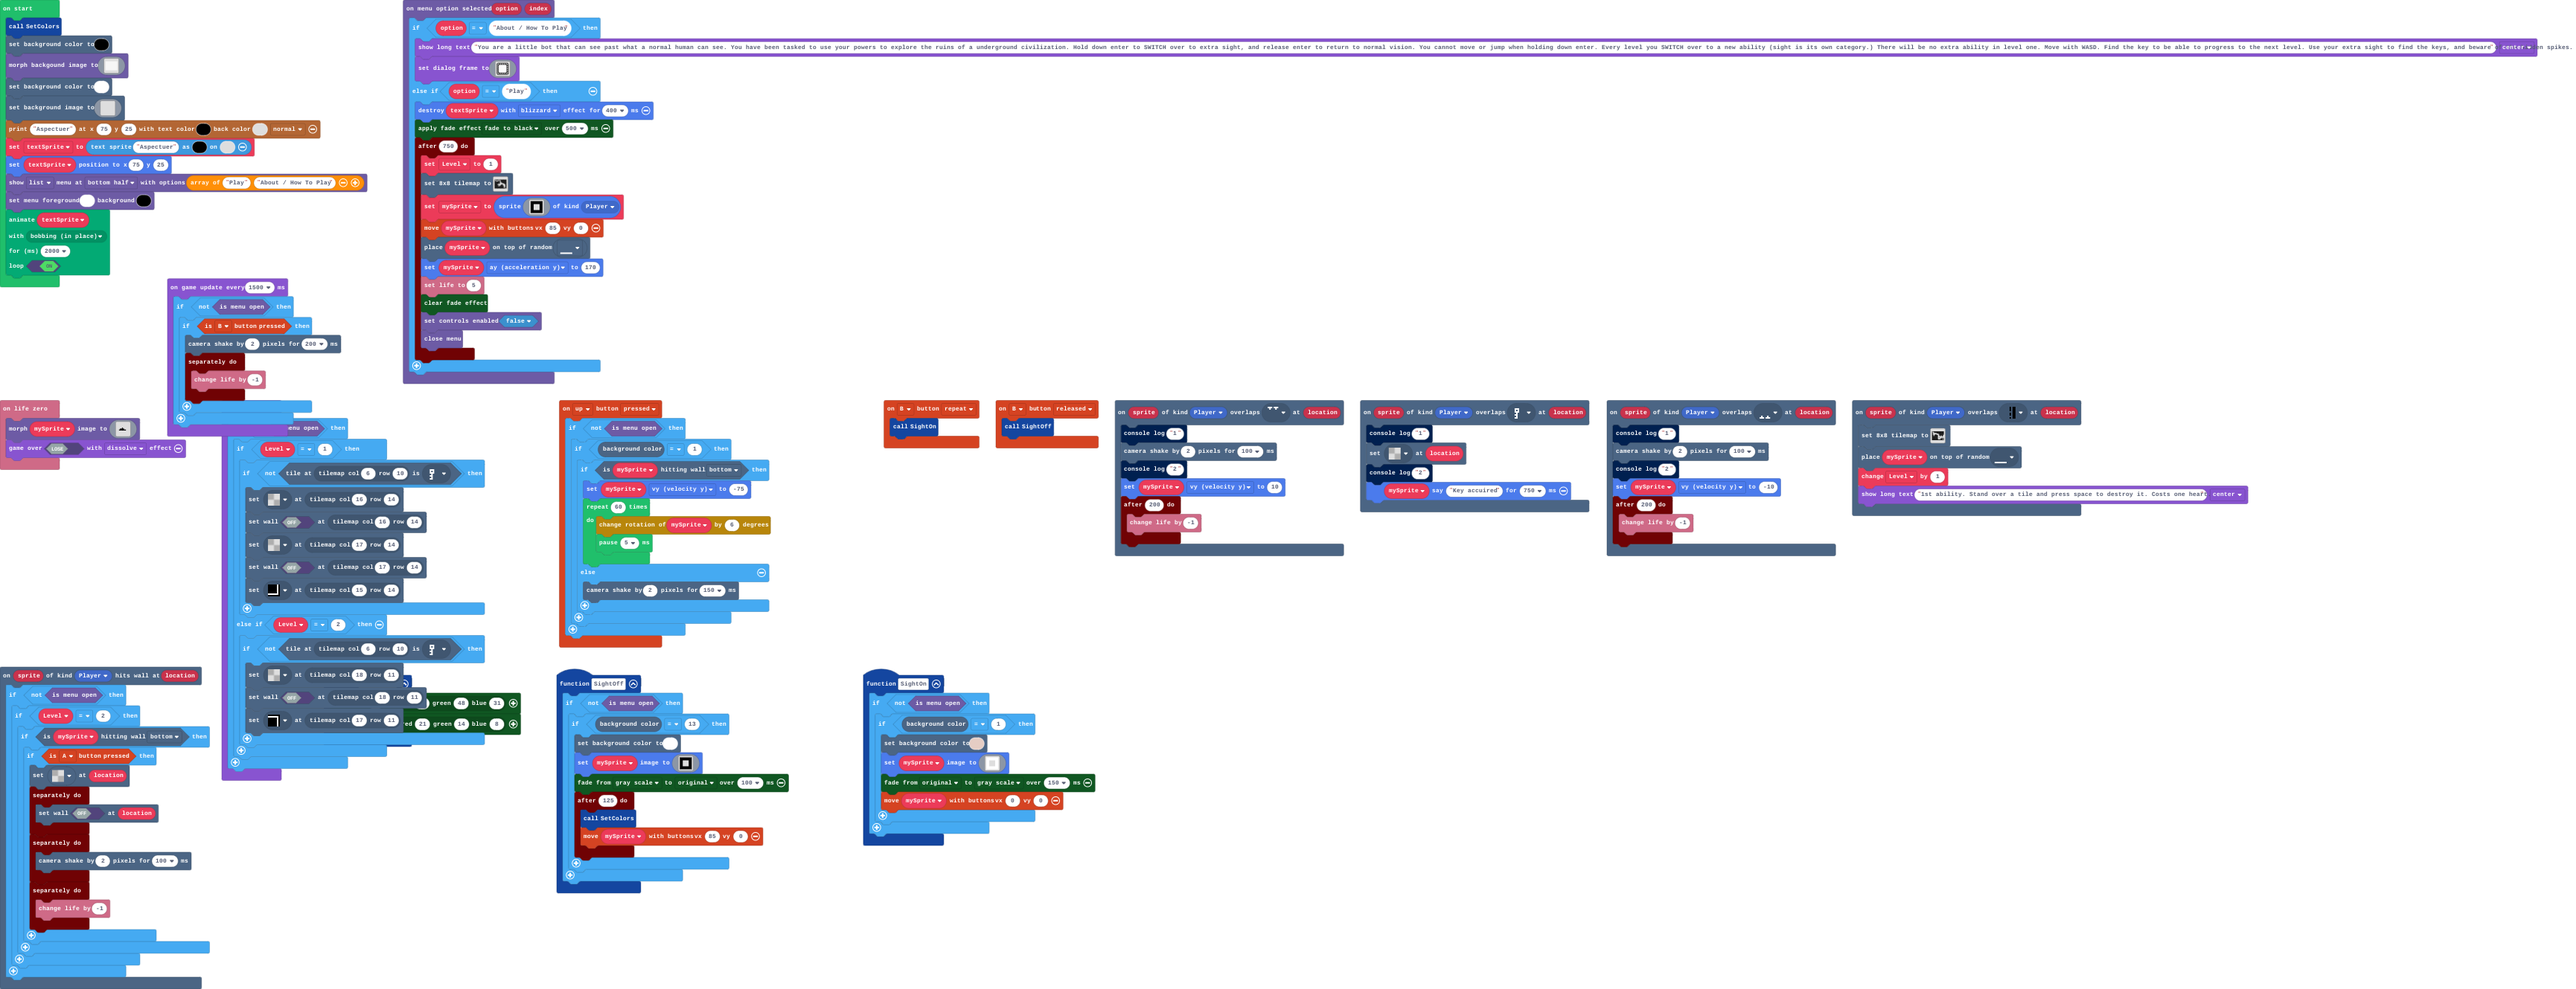
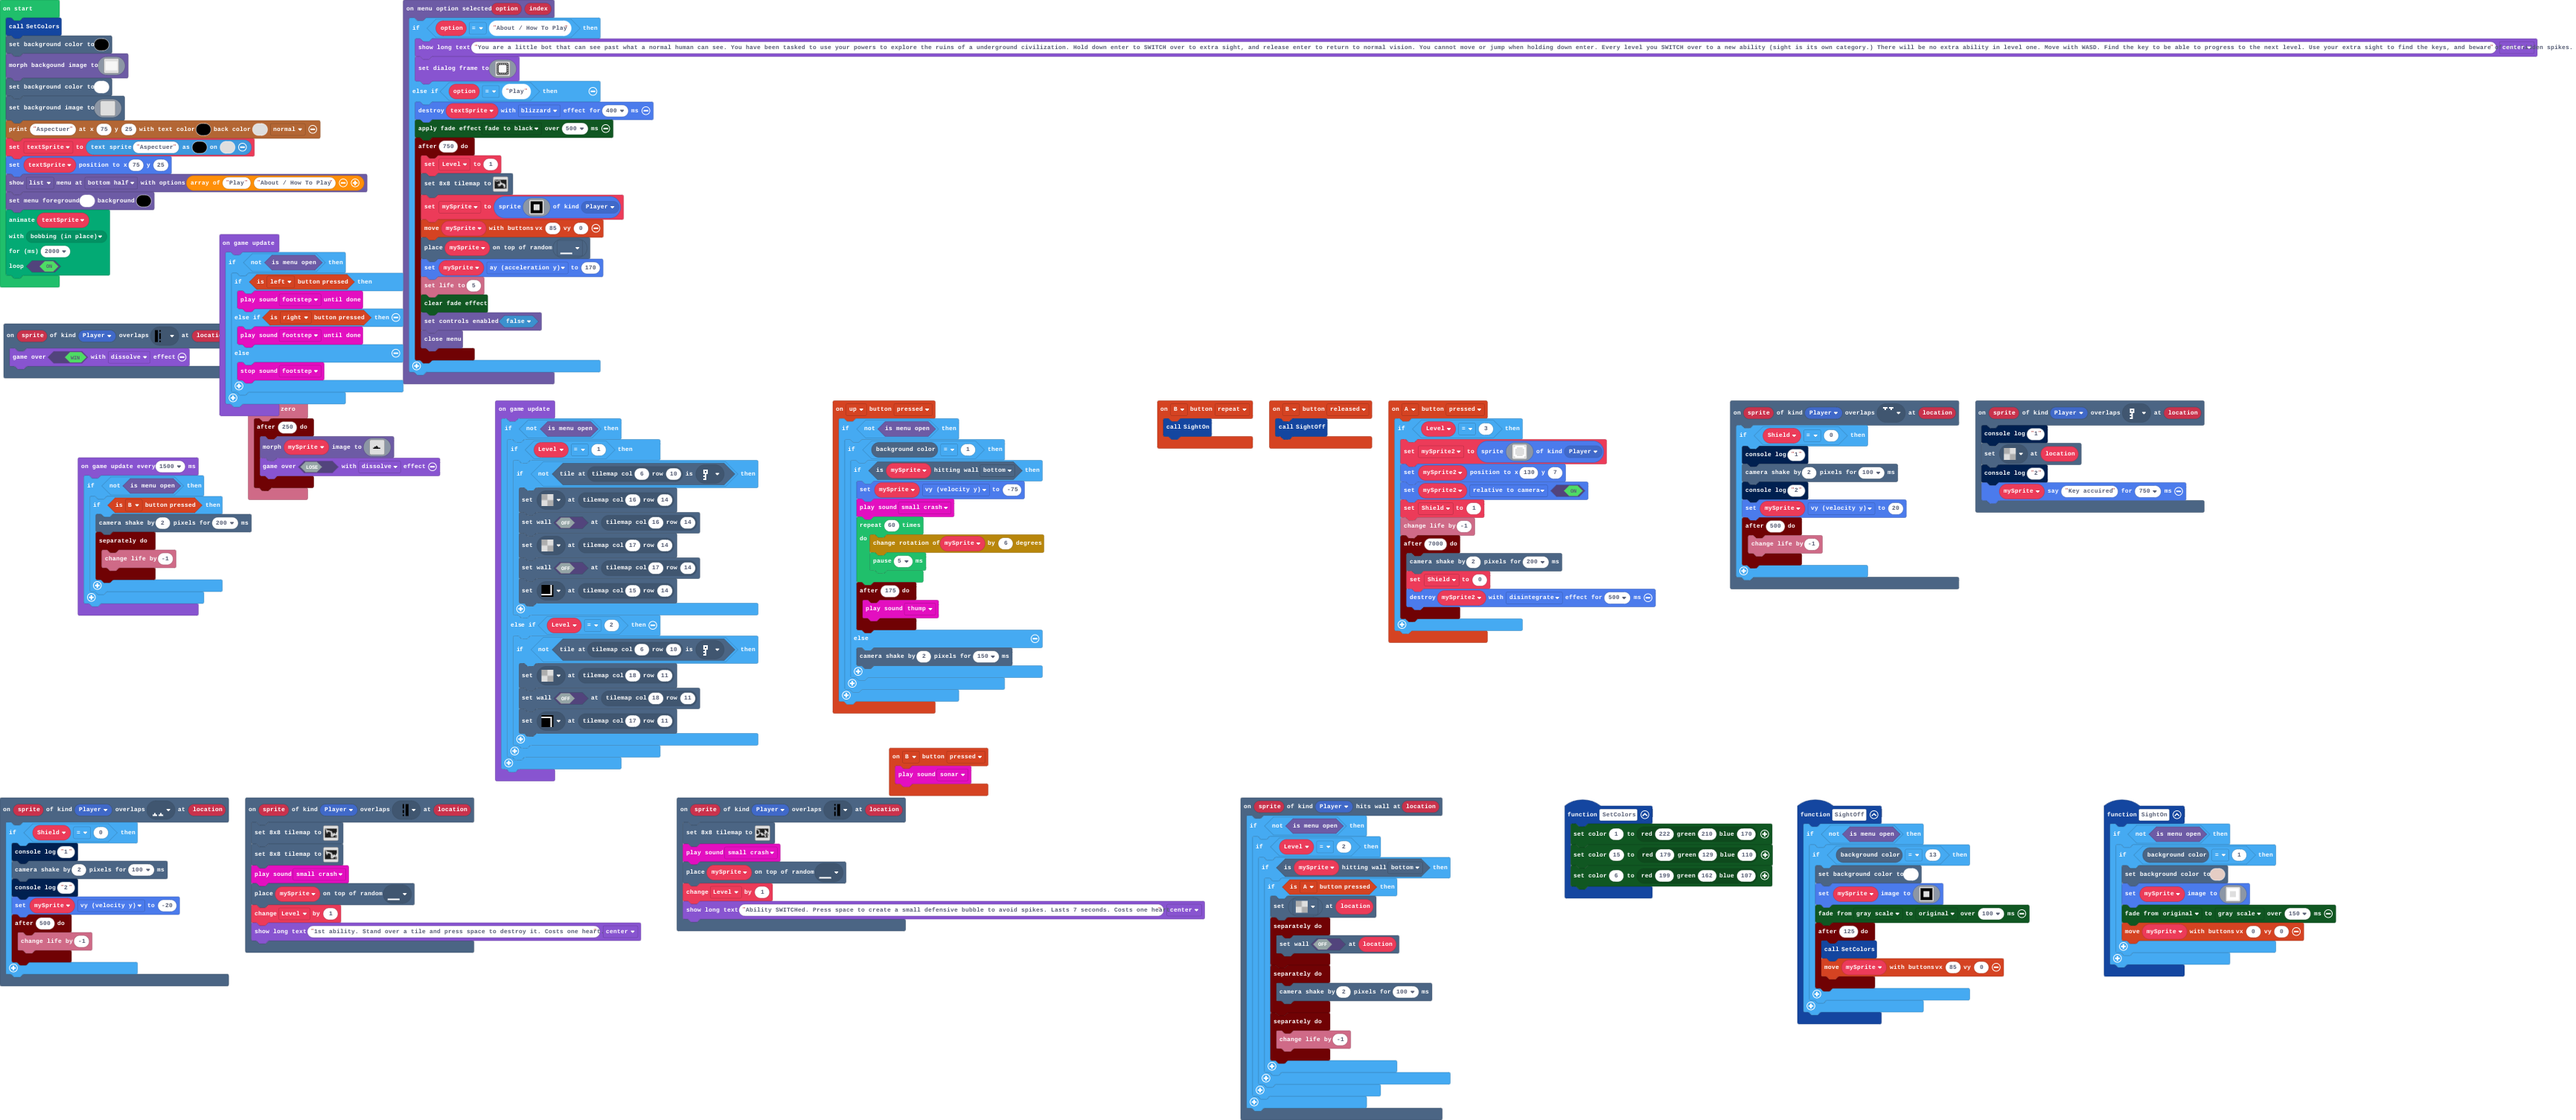
Update main.blocks, main.ts, tilemap.g.jres, tilemap.g.ts

Changed region(s): [[0.0, 0.0, 0.9986, 1.0], [0.5929, 0.709, 0.9049, 0.9248]]

diff --git a/tilemap.g.ts b/tilemap.g.ts
@@ -36,6 +36,12 @@ namespace myTiles {
     export const tile15 = image.ofBuffer(hex``);
     //% fixedInstance jres blockIdentity=images._tile
     export const tile16 = image.ofBuffer(hex``);
+    //% fixedInstance jres blockIdentity=images._tile
+    export const tile17 = image.ofBuffer(hex``);
+    //% fixedInstance jres blockIdentity=images._tile
+    export const tile18 = image.ofBuffer(hex``);
+    //% fixedInstance jres blockIdentity=images._tile
+    export const tile19 = image.ofBuffer(hex``);
 
     helpers._registerFactory("tilemap", function(name: string) {
         switch(helpers.stringTrim(name)) {
@@ -58,6 +64,80 @@ namespace myTiles {
 . . . . . . . . . . . . . . . . 
 . . . . . . . . . . . . . . . . 
 `, [myTiles.transparency16], TileScale.Sixteen);
+            case "level4":
+            case "level4":return tiles.createTilemap(hex`1000100000000000000000000000000000000000000000000000000000000000000000000000000000000000000000000000000000000000000000000000000000000000000000000000000000000000000000000000000000000000000000000000000000000000000000000000000000000000000000000000000000000000000000000000000000000000000000000000000000000000000000000000000000000000000000000000000000000000000000000000000000000000000000000000000000000000000000000000000000000000000000000000000000000000000000000000000000000000000000000000000000000000000000000000000000000000`, img`
+. . . . . . . . . . . . . . . . 
+. . . . . . . . . . . . . . . . 
+. . . . . . . . . . . . . . . . 
+. . . . . . . . . . . . . . . . 
+. . . . . . . . . . . . . . . . 
+. . . . . . . . . . . . . . . . 
+. . . . . . . . . . . . . . . . 
+. . . . . . . . . . . . . . . . 
+. . . . . . . . . . . . . . . . 
+. . . . . . . . . . . . . . . . 
+. . . . . . . . . . . . . . . . 
+. . . . . . . . . . . . . . . . 
+. . . . . . . . . . . . . . . . 
+. . . . . . . . . . . . . . . . 
+. . . . . . . . . . . . . . . . 
+. . . . . . . . . . . . . . . . 
+`, [myTiles.transparency8], TileScale.Eight);
+            case "level5":
+            case "level5":return tiles.createTilemap(hex`1000100000000000000000000000000000000000000000000000000000000000000000000000000000000000000000000000000000000000000000000000000000000000000000000000000000000000000000000000000000000000000000000000000000000000000000000000000000000000000000000000000000000000000000000000000000000000000000000000000000000000000000000000000000000000000000000000000000000000000000000000000000000000000000000000000000000000000000000000000000000000000000000000000000000000000000000000000000000000000000000000000000000000000000000000000000000000`, img`
+. . . . . . . . . . . . . . . . 
+. . . . . . . . . . . . . . . . 
+. . . . . . . . . . . . . . . . 
+. . . . . . . . . . . . . . . . 
+. . . . . . . . . . . . . . . . 
+. . . . . . . . . . . . . . . . 
+. . . . . . . . . . . . . . . . 
+. . . . . . . . . . . . . . . . 
+. . . . . . . . . . . . . . . . 
+. . . . . . . . . . . . . . . . 
+. . . . . . . . . . . . . . . . 
+. . . . . . . . . . . . . . . . 
+. . . . . . . . . . . . . . . . 
+. . . . . . . . . . . . . . . . 
+. . . . . . . . . . . . . . . . 
+. . . . . . . . . . . . . . . . 
+`, [myTiles.transparency8], TileScale.Eight);
+            case "level6":
[1 lines of base64/hex data omitted]
+2 2 2 2 2 2 2 2 2 2 2 2 2 2 2 2 2 2 2 2 
+. . . 2 2 2 2 2 2 2 2 2 2 2 2 2 2 2 2 2 
+2 2 . . . 2 2 2 2 2 2 2 2 2 . 2 2 2 2 2 
+2 2 2 . . . 2 2 2 2 2 2 2 2 . . 2 2 2 2 
+2 2 2 2 . 2 2 2 2 2 2 2 2 2 . . . 2 2 2 
+2 2 2 2 . . 2 2 2 2 2 2 2 2 . . . . 2 2 
+2 2 2 2 2 . 2 2 2 2 2 2 2 . . . . . . . 
+2 2 2 2 . . . . . . 2 2 2 . . . 2 2 2 . 
+2 2 2 2 . 2 2 . . . . 2 2 2 2 . 2 2 . . 
+. . 2 . . 2 2 2 . . . . 2 . . . 2 2 . 2 
+. . . . 2 2 2 2 . . . . . . 2 2 2 2 . 2 
+. . 2 2 2 2 2 2 2 . 2 2 2 . . . 2 2 . 2 
+2 2 2 2 2 2 2 2 2 2 2 2 2 2 . . 2 2 . . 
+2 2 2 2 2 2 2 2 2 2 2 2 2 2 . . 2 2 2 . 
+2 2 2 2 2 2 2 2 2 2 2 2 2 2 2 2 2 2 . . 
+`, [myTiles.transparency8,myTiles.tile2,myTiles.tile4,myTiles.tile5,myTiles.tile6,myTiles.tile7,myTiles.tile8,myTiles.tile9,myTiles.tile10,myTiles.tile11,myTiles.tile12,myTiles.tile13,myTiles.tile16,myTiles.tile17], TileScale.Eight);
+            case "level3":
[1 lines of base64/hex data omitted]
+2 2 2 2 2 2 2 2 2 2 2 2 2 2 2 2 2 2 2 2 
+2 . . 2 2 2 2 2 2 2 2 2 2 2 2 2 2 2 2 2 
+2 2 . . 2 2 2 2 2 2 2 2 2 2 2 2 2 2 2 2 
+2 2 . . . . . . 2 2 2 2 2 2 2 2 2 2 2 2 
+2 2 . . . . . . . . . 2 2 2 2 2 2 2 2 2 
+2 2 . . . 2 2 2 . . . . 2 2 2 2 2 2 2 2 
+2 2 2 . 2 2 2 2 2 2 . . 2 2 2 2 2 2 2 . 
+2 2 2 . 2 2 2 2 2 2 . . . 2 2 . 2 2 2 . 
+2 2 2 2 2 2 2 2 2 2 . . . 2 . . . 2 . . 
+2 2 2 2 2 2 2 2 2 2 . . . . . . . . . . 
+2 2 2 2 2 2 2 2 2 2 . . 2 . . . . . . . 
+2 2 2 2 2 2 2 2 2 2 . . . . . . 2 2 2 2 
+2 2 2 2 2 2 2 2 2 2 . . . . 2 2 2 2 . 2 
+2 2 2 2 2 2 2 2 2 2 2 . 2 . 2 2 2 2 . . 
+2 2 2 2 2 2 2 2 2 2 2 2 2 2 2 2 2 2 2 2 
+`, [myTiles.transparency8,myTiles.tile2,myTiles.tile4,myTiles.tile5,myTiles.tile6,myTiles.tile7,myTiles.tile8,myTiles.tile9,myTiles.tile10,myTiles.tile11,myTiles.tile12,myTiles.tile14,myTiles.tile15,myTiles.tile16,myTiles.tile13,myTiles.tile18,myTiles.tile19], TileScale.Eight);
             case "level2":
[1 lines of base64/hex data omitted]
 2 2 2 2 2 2 2 2 2 2 2 2 2 2 2 2 2 2 2 2 
@@ -76,24 +156,25 @@ namespace myTiles {
 2 2 2 2 2 2 2 2 2 2 2 2 2 2 2 2 . 2 2 2 
 2 2 2 2 2 2 2 2 2 2 2 2 2 2 2 2 2 2 . . 
 `, [myTiles.transparency8,myTiles.tile3,myTiles.tile2,myTiles.tile4,myTiles.tile5,myTiles.tile6,myTiles.tile7,myTiles.tile8,myTiles.tile9,myTiles.tile10,myTiles.tile11,myTiles.tile12,myTiles.tile13,myTiles.tile14], TileScale.Eight);
-            case "level3":
[1 lines of base64/hex data omitted]
-2 2 2 2 2 2 2 2 2 2 2 2 2 2 2 2 2 2 2 2 
-2 . . 2 2 2 2 2 2 2 2 2 2 2 2 2 2 2 2 2 
-2 2 . . 2 2 2 2 2 2 2 2 2 2 2 2 2 2 2 2 
-2 2 . . . . . . 2 2 2 2 2 2 2 2 2 2 2 2 
-2 2 . . . . . . . . . 2 2 2 2 2 2 2 2 2 
-2 2 . . . 2 2 2 . . . . 2 2 2 2 2 2 2 2 
-2 2 2 . 2 2 2 2 2 2 . . 2 2 2 2 2 2 2 . 
-2 2 2 . 2 2 2 2 2 2 . . . 2 2 . 2 2 2 . 
-2 2 2 2 2 2 2 2 2 2 . . . 2 . . . 2 . . 
-2 2 2 2 2 2 2 2 2 2 . . . . . . . . . . 
-2 2 2 2 2 2 2 2 2 2 . . 2 . . . . . . . 
-2 2 2 2 2 2 2 2 2 2 . . . . . . 2 2 2 2 
-2 2 2 2 2 2 2 2 2 2 . . . . 2 2 2 2 . 2 
-2 2 2 2 2 2 2 2 2 2 2 . 2 . 2 2 2 2 . . 
-2 2 2 2 2 2 2 2 2 2 2 2 2 2 2 2 2 2 2 2 
-`, [myTiles.transparency8,myTiles.tile2,myTiles.tile4,myTiles.tile5,myTiles.tile6,myTiles.tile7,myTiles.tile8,myTiles.tile9,myTiles.tile10,myTiles.tile11,myTiles.tile12,myTiles.tile14,myTiles.tile15,myTiles.tile16,myTiles.tile13], TileScale.Eight);
+            case "level7":
+            case "level7":return tiles.createTilemap(hex`1000100000000000000000000000000000000000000000000000000000000000000000000000000000000000000000000000000000000000000000000000000000000000000000000000000000000000000000000000000000000000000000000000000000000000000000000000000000000000000000000000000000000000000000000000000000000000000000000000000000000000000000000000000000000000000000000000000000000000000000000000000000000000000000000000000000000000000000000000000000000000000000000000000000000000000000000000000000000000000000000000000000000000000000000000000000000000`, img`
+. . . . . . . . . . . . . . . . 
+. . . . . . . . . . . . . . . . 
+. . . . . . . . . . . . . . . . 
+. . . . . . . . . . . . . . . . 
+. . . . . . . . . . . . . . . . 
+. . . . . . . . . . . . . . . . 
+. . . . . . . . . . . . . . . . 
+. . . . . . . . . . . . . . . . 
+. . . . . . . . . . . . . . . . 
+. . . . . . . . . . . . . . . . 
+. . . . . . . . . . . . . . . . 
+. . . . . . . . . . . . . . . . 
+. . . . . . . . . . . . . . . . 
+. . . . . . . . . . . . . . . . 
+. . . . . . . . . . . . . . . . 
+. . . . . . . . . . . . . . . . 
+`, [myTiles.transparency8], TileScale.Eight);
         }
         return null;
     })
@@ -134,6 +215,11 @@ namespace myTiles {
             case "tile15":return tile15;
             case "myTile14":
             case "tile16":return tile16;
+            case "tile17":return tile17;
+            case "myTile15":
+            case "tile18":return tile18;
+            case "myTile16":
+            case "tile19":return tile19;
         }
         return null;
     })

diff --git a/main.ts b/main.ts
@@ -1,5 +1,7 @@
 scene.onOverlapTile(SpriteKind.Player, assets.tile`myTile1`, function (sprite, location) {
     tiles.setSmallTilemap(tilemap`level3`)
+    tiles.setSmallTilemap(tilemap`level3`)
+    music.smallCrash.play()
     tiles.placeOnRandomTile(mySprite, assets.tile`myTile11`)
     Level += 1
     game.showLongText("1st ability. Stand over a tile and press space to destroy it. Costs one heart.", DialogLayout.Center)
@@ -9,10 +11,14 @@ controller.up.onEvent(ControllerButtonEvent.Pressed, function () {
         if (scene.backgroundColor() == 1) {
             if (mySprite.isHittingTile(CollisionDirection.Bottom)) {
                 mySprite.vy = -75
+                music.smallCrash.play()
                 for (let index = 0; index < 60; index++) {
                     transformSprites.changeRotation(mySprite, 6)
                     pause(5)
                 }
+                timer.after(175, function () {
+                    music.thump.play()
+                })
             } else {
                 scene.cameraShake(2, 150)
             }
@@ -39,6 +45,9 @@ scene.onHitWall(SpriteKind.Player, function (sprite, location) {
         }
     }
 })
+controller.B.onEvent(ControllerButtonEvent.Pressed, function () {
+    music.sonar.play()
+})
 function SightOff () {
     if (!(blockMenu.isMenuOpen())) {
         if (scene.backgroundColor() == 13) {
@@ -57,10 +66,41 @@ function SightOff () {
         }
     }
 }
+scene.onOverlapTile(SpriteKind.Player, assets.tile`myTile13`, function (sprite, location) {
+    tiles.setSmallTilemap(tilemap`level6`)
+    music.smallCrash.play()
+    tiles.placeOnRandomTile(mySprite, assets.tile`myTile11`)
+    Level += 1
+    game.showLongText("Ability SWITCHed. Press space to create a small defensive bubble to avoid spikes. Lasts 7 seconds. Costs one heart.", DialogLayout.Center)
+})
 function SetColors () {
-    color.setColor(1, color.rgb(60, 48, 31))
-    color.setColor(15, color.rgb(21, 14, 8))
+    color.setColor(1, color.rgb(222, 210, 170))
+    color.setColor(15, color.rgb(179, 129, 110))
+    color.setColor(6, color.rgb(199, 162, 107))
 }
+controller.A.onEvent(ControllerButtonEvent.Pressed, function () {
+    if (Level == 3) {
+        mySprite2 = sprites.create(img`
+            . 1 1 1 1 1 1 . 
+            1 1 . . . . 1 1 
+            1 . . . . . . 1 
+            1 . . . . . . 1 
+            1 . . . . . . 1 
+            1 . . . . . . 1 
+            1 1 . . . . 1 1 
+            . 1 1 1 1 1 1 . 
+            `, SpriteKind.Player)
+        mySprite2.setPosition(130, 7)
+        mySprite2.setFlag(SpriteFlag.RelativeToCamera, true)
+        Shield = 1
+        info.changeLifeBy(-1)
+        timer.after(7000, function () {
+            scene.cameraShake(2, 200)
+            Shield = 0
+            mySprite2.destroy(effects.disintegrate, 500)
+        })
+    }
+})
 scene.onOverlapTile(SpriteKind.Player, assets.tile`myTile12`, function (sprite, location) {
     console.log("1")
     tiles.setTileAt(location, assets.tile`transparency8`)
@@ -70,13 +110,18 @@ scene.onOverlapTile(SpriteKind.Player, assets.tile`myTile12`, function (sprite, 
 controller.B.onEvent(ControllerButtonEvent.Repeated, function () {
     SightOn()
 })
+scene.onOverlapTile(SpriteKind.Player, assets.tile`tile17`, function (sprite, location) {
+    game.over(true, effects.dissolve)
+})
 info.onLifeZero(function () {
-    imagemorph.morph(mySprite, img`
-        . . . . . f . . . . . . 
-        . . . f f f f . . . . . 
-        . . f f f f f f f . . . 
-        `)
-    game.over(false, effects.dissolve)
+    timer.after(250, function () {
+        imagemorph.morph(mySprite, img`
+            . . . . . f . . . . . . 
+            . . . f f f f . . . . . 
+            . . f f f f f f f . . . 
+            `)
+        game.over(false, effects.dissolve)
+    })
 })
 function SightOn () {
     if (!(blockMenu.isMenuOpen())) {
@@ -97,13 +142,15 @@ controller.B.onEvent(ControllerButtonEvent.Released, function () {
     SightOff()
 })
 scene.onOverlapTile(SpriteKind.Player, assets.tile`myTile10`, function (sprite, location) {
-    console.log("1")
-    scene.cameraShake(2, 100)
-    console.log("2")
-    mySprite.vy = -10
-    timer.after(200, function () {
-        info.changeLifeBy(-1)
-    })
+    if (Shield == 0) {
+        console.log("1")
+        scene.cameraShake(2, 100)
+        console.log("2")
+        mySprite.vy = -20
+        timer.after(500, function () {
+            info.changeLifeBy(-1)
+        })
+    }
 })
 blockMenu.onMenuOptionSelected(function (option, index) {
     if (option == "About / How To Play") {
@@ -157,14 +204,18 @@ blockMenu.onMenuOptionSelected(function (option, index) {
     }
 })
 scene.onOverlapTile(SpriteKind.Player, assets.tile`myTile14`, function (sprite, location) {
-    console.log("1")
-    scene.cameraShake(2, 100)
-    console.log("2")
-    mySprite.vy = 10
-    timer.after(200, function () {
-        info.changeLifeBy(-1)
-    })
+    if (Shield == 0) {
+        console.log("1")
+        scene.cameraShake(2, 100)
+        console.log("2")
+        mySprite.vy = 20
+        timer.after(500, function () {
+            info.changeLifeBy(-1)
+        })
+    }
 })
+let Shield = 0
+let mySprite2: Sprite = null
 let Level = 0
 let mySprite: Sprite = null
 let textSprite: Sprite = null
@@ -426,6 +477,17 @@ animation.animationPresets(animation.bobbing),
 2000,
 true
 )
+game.onUpdate(function () {
+    if (!(blockMenu.isMenuOpen())) {
+        if (controller.left.isPressed()) {
+            music.footstep.playUntilDone()
+        } else if (controller.right.isPressed()) {
+            music.footstep.playUntilDone()
+        } else {
+            music.footstep.stop()
+        }
+    }
+})
 game.onUpdate(function () {
     if (!(blockMenu.isMenuOpen())) {
         if (Level == 1) {
